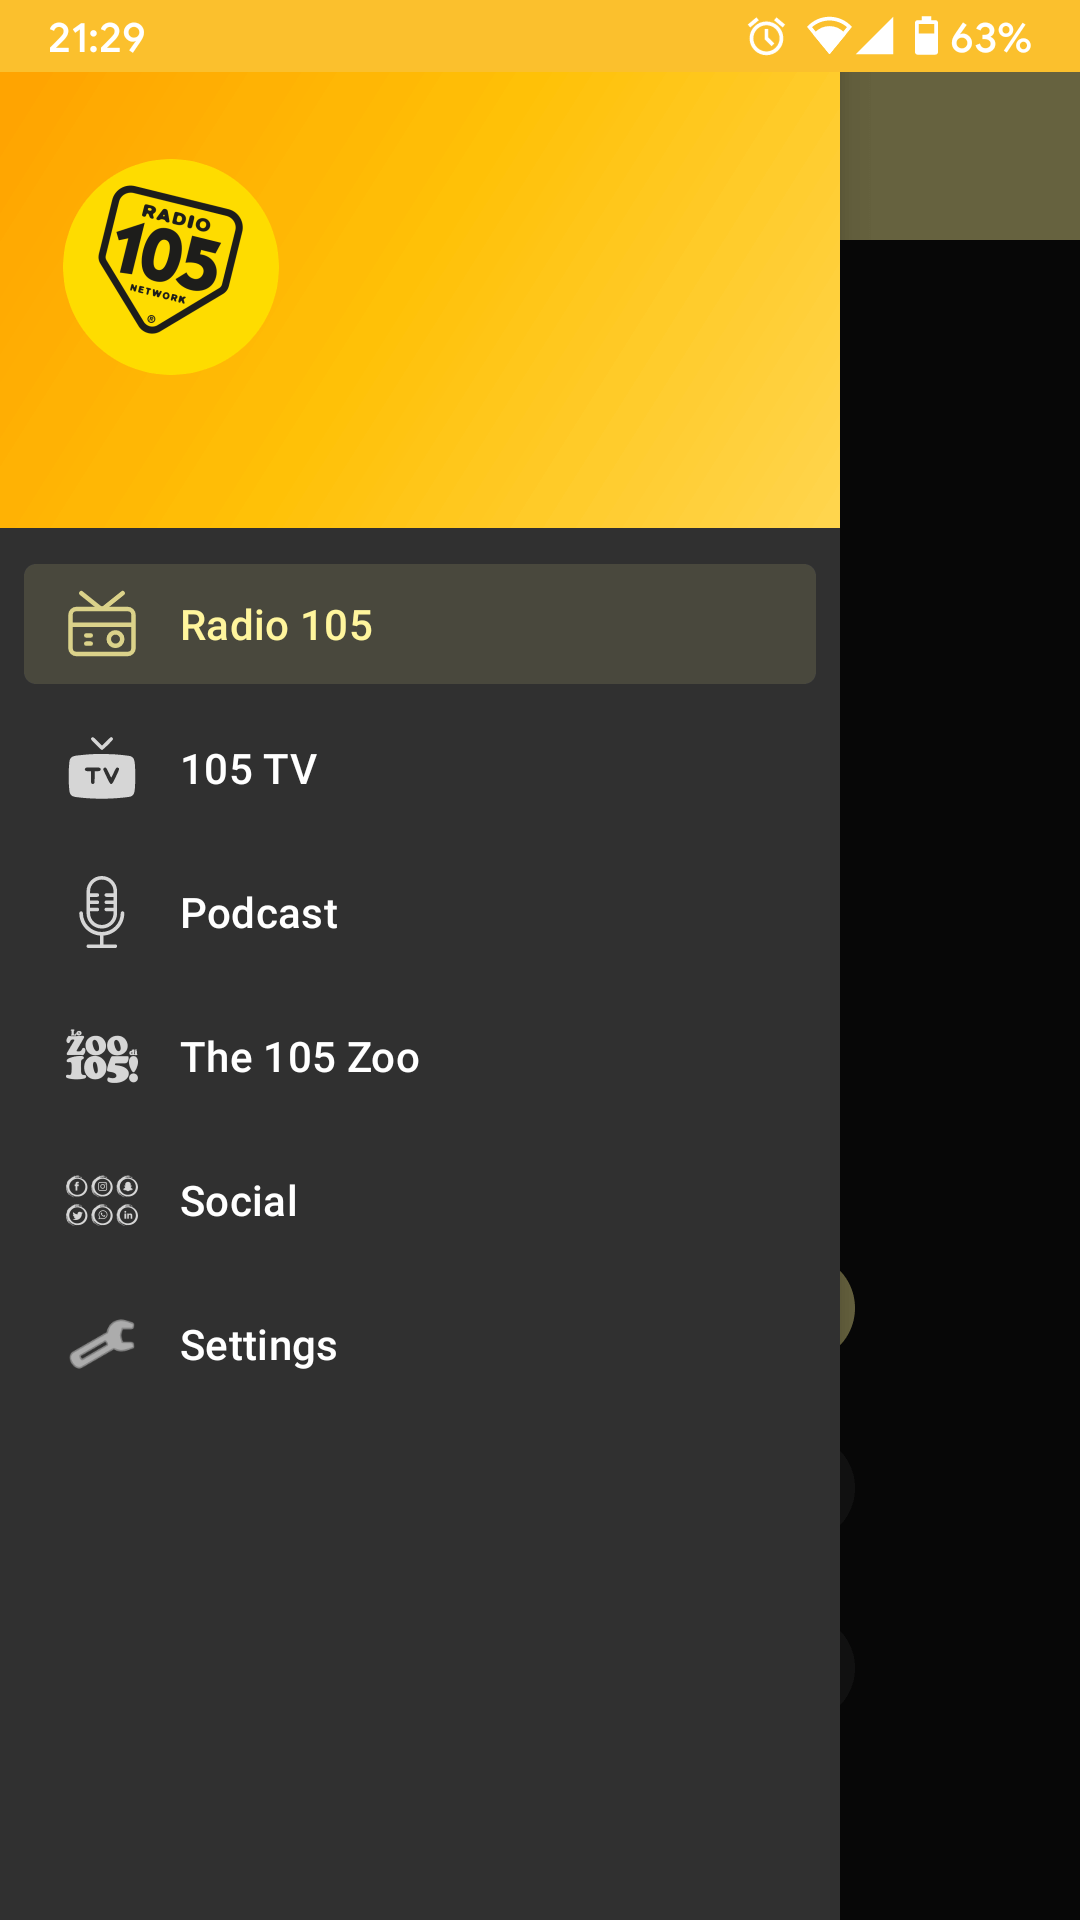
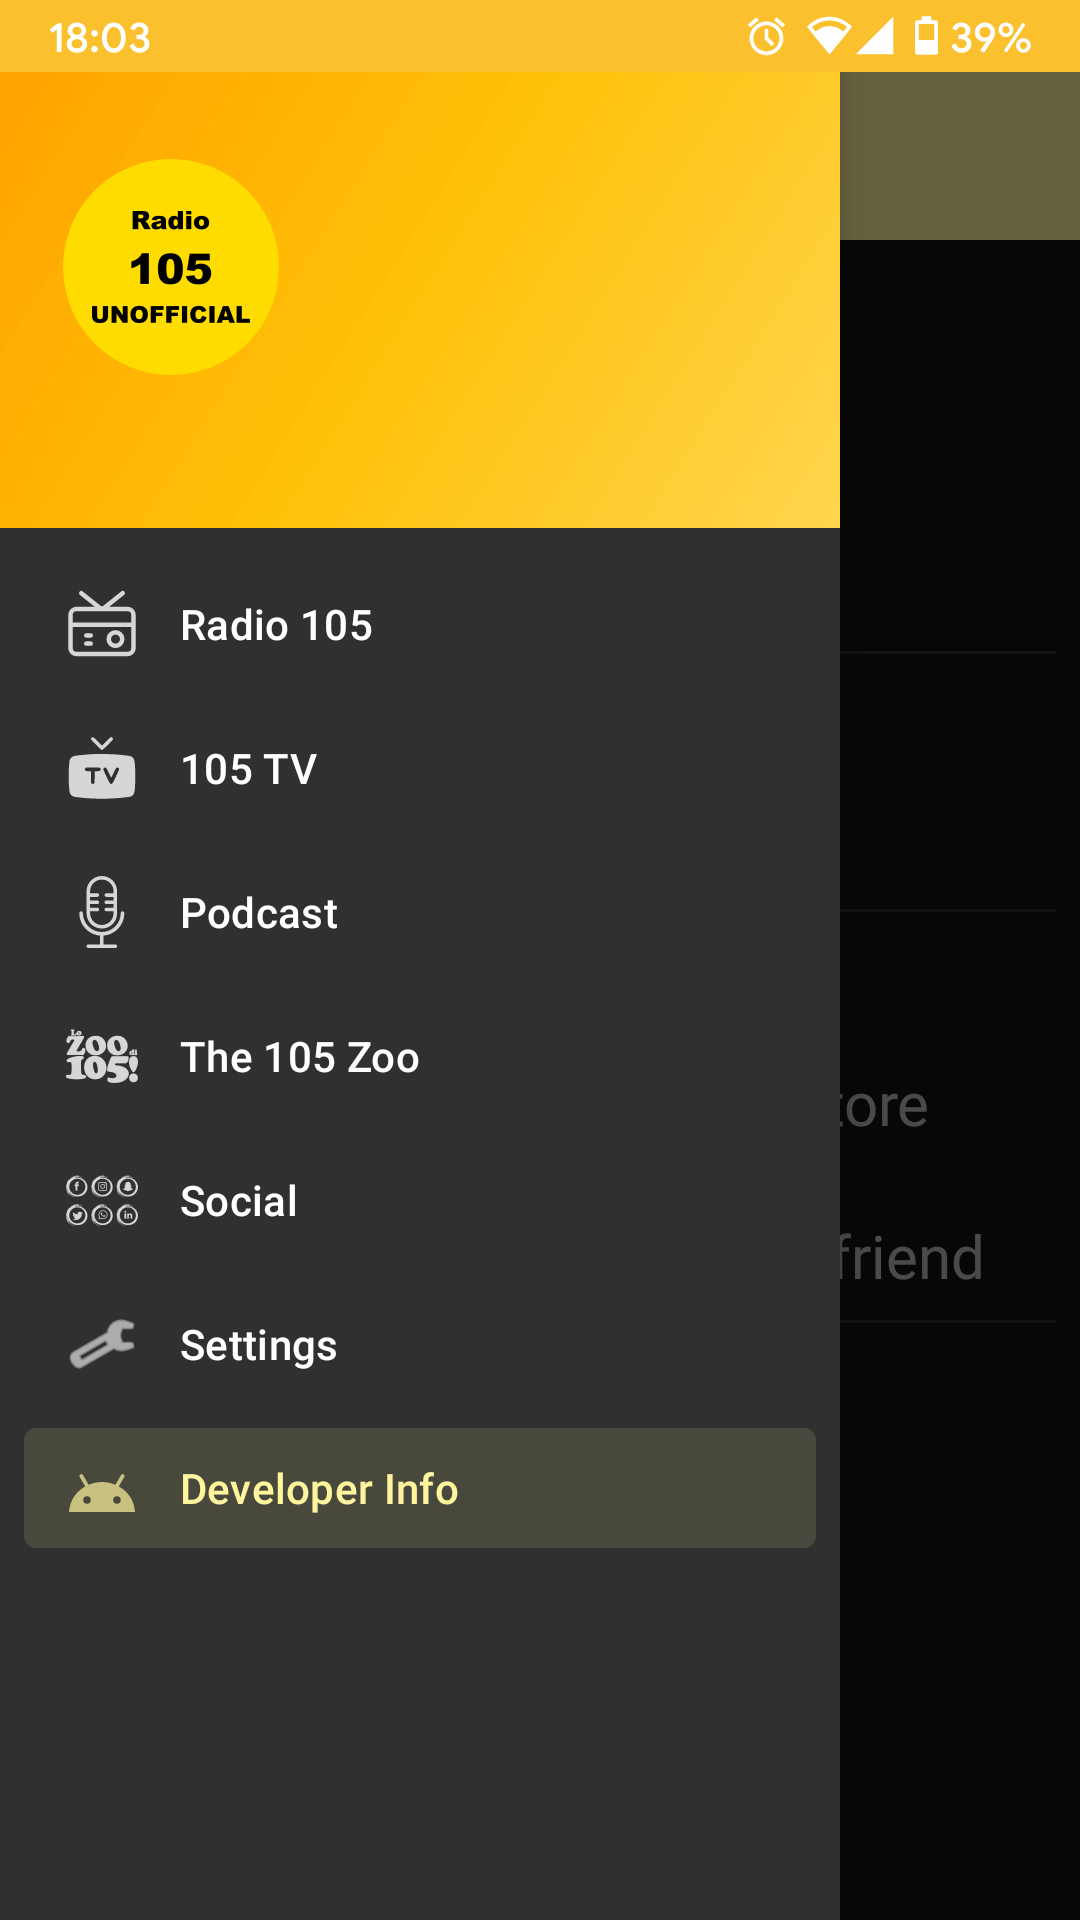
Update Readme and add build instructions

diff --git a/Readme.md b/Readme.md
@@ -18,11 +18,12 @@ I've decided to start the development of this app tired of the bugs in the offic
 * Completely open source
 * Compatible with all devices running android Lollipop and above
 * No Ads
-* No external libraries except [AdBlockPlus](https://github.com/adblockplus/libadblockplus-android) webView for Podcast and The 105 Zoo sections, [jsoup](https://jsoup.org/) for parsing radio streaming metadata and [Timber](https://github.com/JakeWharton/timber) for logging.
+* No external libraries except [AdBlockPlus](https://gitlab.com/eyeo/distpartners/libadblockplus-android) for Podcast and The 105 Zoo sections, [jsoup](https://jsoup.org/) for parsing radio streaming metadata, [Glide](https://github.com/bumptech/glide) for WebView image caching, [LeakCanary](https://github.com/square/leakcanary) (only in Debug builds) for memory leaks detection and [Timber](https://github.com/JakeWharton/timber) (only in Debug builds) for logging
 * The radio streaming can be controlled with wearable devices or Android Auto
 * Can be installed on android TV --> Tested with Android TV emulator
 * Compatible with wearable devices --> Tested with Wear OS emulator and with Xiaomi Band 4 and 5
 * Fully compatible with Android 12
+* The version downloadable from Play Store use the new [Android App Bundle](https://developer.android.com/platform/technology/app-bundle) format
 
 <br />
 <br />
@@ -48,15 +49,21 @@ I've decided to start the development of this app tired of the bugs in the offic
     * Automatically enable fullscreen when in landscape mode
     * Screen does not turns off when the user is in this section
 
-3. Podcast: the [105.net](https://105.net) podcast section <img src="images/Screenshot_4.png" align="right" height="75" >
+3. Podcast: the [105.net](https://105.net) programs section <img src="images/Screenshot_4.png" align="right" height="75" >
     * All ad and banners completely removed
     * Podcast can be listened and downloaded (write on storage permission is required for download on Android versions < 10)
+    * Starting from version 1.7.0 podcast can be listened even with the screen off or with the app in background, and a notification with play/pause button is displayed. The feature works fine, but there are some limitation at the moment:
+        * It' not a MediaSession, this means standard notification and no multimedia controls on wearable devices
+        * Streaming service will stop if app is removed from recent apps list
     * No cookies
     * If for some reason a link can't be opened, the app will prompt the user to open it in an external browser
 
 4. The 105 Zoo: the complete [zoo.105.net](https://zoo.105.net) site <img src="images/Screenshot_5.png" align="right" height="75" >
     * All ad and banners completely removed
     * Podcast can be listened and downloaded (write on storage permission is required for download on Android versions < 10)
+    * Starting from version 1.7.0 podcast can be listened even with the screen off or with the app in background, and a notification with play/pause button is displayed. The feature works fine, but there are some limitation at the moment:
+        * It' not a MediaSession, this means standard notification and no multimedia controls on wearable devices
+        * Streaming service will stop if app is removed from recent apps list
     * No cookies
     * If for some reason a link can't be opened, the app will prompt the user to open it in an external browser
 
@@ -69,15 +76,42 @@ I've decided to start the development of this app tired of the bugs in the offic
     * Theme: choose between light, dark or system theme *Default: system*
     * Notification type: allow user to choose between a standard or a multimedia notification during the audio streaming *Default: media notification* | **Removed in Android TV devices**
     * Screen on: keep the screen on when in podcast and the 105 zoo sections *Default: disabled* | **Removed in Android TV devices**
-    * Stop streaming setting: allow system to stop streaming when app is removed from recent tasks *Default: disabled* **Removed in Android TV and in MiUi/EMUI devices**
+    * Stop streaming setting: allow system to stop streaming when app is removed from recent tasks *Default: disabled* | **Removed in Android TV and in MiUi/EMUI devices**
     * Audio devices: pause streaming when an audio device (headset, BT, etc.) is disconnected *Default: enabled*
     * Reconnect stream: restart the radio stream after an error if internet is available  *Default: enabled*
     * Network change: restart the radio stream immediately when the device switch from mobile network to WiFi and vice versa  *Default: enabled*
+
+
+7. Developer Info <img src="images/Screenshot_10.png" align="right" height="75" >
+    * Provide developer contact, bug report and sources link on GitHub
+    * Provide link to Play Store page and share/vote app buttons
 
 <br />
 <br />
 
 ## Download:
 
-* [Latest version on GitHub](https://github.com/B--B/Radio_105_Unofficial/releases/latest)
-* [Latest version on Play Store](https://play.google.com/store/apps/details?id=com.bb.radio105)
+* [Latest version on GitHub](https://github.com/B--B/Radio_105_Unofficial/releases/latest)  --> APK signed with my signing key
+* [Latest version on Play Store](https://play.google.com/store/apps/details?id=com.bb.radio105) --> AAB signed by Google with a different signing key
+
+Please note that signing keys are different, this means that you need to uninstall Play Store version if you want to install GitHub version. Usually updates on GitHub are pushed a couple of days before Play Store releases, but keep in mind that using GitHub version will stop updates from Play Store, and you have to update manually the app everytime a new version is released.
+
+## Build Instructions
+
+1. [Android Studio Preview](https://developer.android.com/studio/preview) is suggested, stable version can be used for compiling too, but build.gradle should be modified as stable version does not support the gradle plugin version in use. Installation info [here](https://developer.android.com/studio/install).
+
+2. Download the repository zip and uncompress it or clone the repository with `git clone https://github.com/B--B/Radio_105_Unofficial.git`
+
+3. Open Android Studio and in **Project** section click on **Open** and select the repository folder
+
+4. Let Android Studio download and setup all dependencies, then in the menu bar, click **Build --> Generate Signed Bundle/APK**.
+
+5. Choose **APK** and click **Next**
+
+6. Create a signing key for signing the apk, click on **Create New...**, provide all required info then click **OK** --> This step is required only the first time
+
+7. Once you have the signing key, put your keystore password and click on **Next**
+
+8. Select *debug* or *release* package and click **Finish**
+
+9. APK will be generated in folder `Radio_105_Unofficial/app/release/` for *release* APKs, and in `Radio_105_Unofficial/app/debug/` folder for *debug* APKs.
